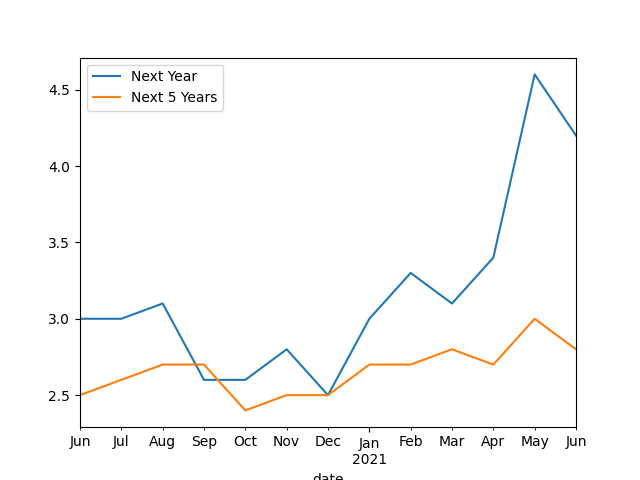
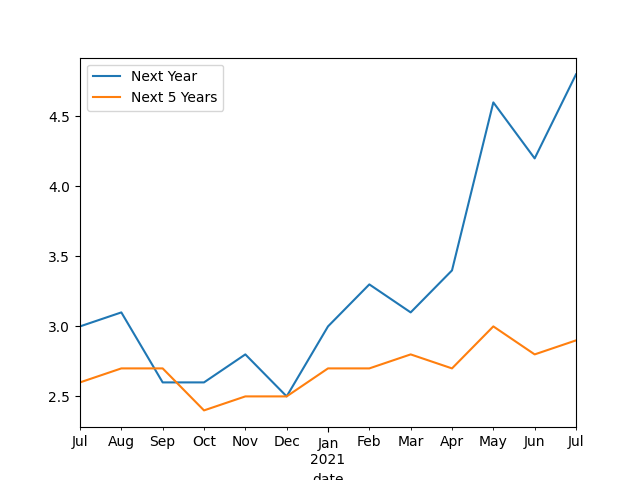
-

diff --git a/en/2019/05/stats.md b/en/2019/05/stats.md
@@ -76,7 +76,6 @@ R^2 0.9011858911763367
 [49.14454875 51.75431018] 50.4494294659622
 ```
 
-
 ## The Cycle
 
 <a name="cycle"/>
@@ -127,12 +126,12 @@ DATE
 2021-01-01  0.397284
               infyoy
 DATE                
-2020-12-01  1.362005
 2021-01-01  1.399770
 2021-02-01  1.676215
 2021-03-01  2.619763
 2021-04-01  4.159695
 2021-05-01  4.992707
+2021-06-01  5.391451
 ```
 
 <a name="infexp"/>
@@ -152,7 +151,16 @@ df1['sdate'] = df1.apply(lambda x: x.Mon + "-" + str(int(x['Year'])),axis=1)
 df1['date'] = pd.to_datetime(df1.sdate)
 df1 = df1.set_index('date')
 df1[['Next Year','Next 5 Years']].plot()
+print (df1[['Next Year', 'Next 5 Years']].tail(3))
 plt.savefig('infexp.png')
+```
+
+```text
+            Next Year  Next 5 Years
+date                               
+2021-05-01        4.6           3.0
+2021-06-01        4.2           2.8
+2021-07-01        4.8           2.9
 ```
 
 ![](infexp.png)

diff --git a/en/README.md b/en/README.md
@@ -1,4 +1,7 @@
-# Tweets
+
+<img width="10%" src="https://drive.google.com/uc?export=view&id=1B2wf9R7AMH1d7Vw6e2mucLbIQ5NSjir7"/>
+
+---
 
 New Address is Here
 
